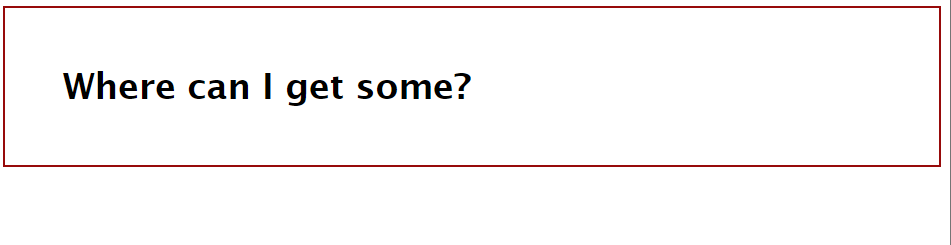
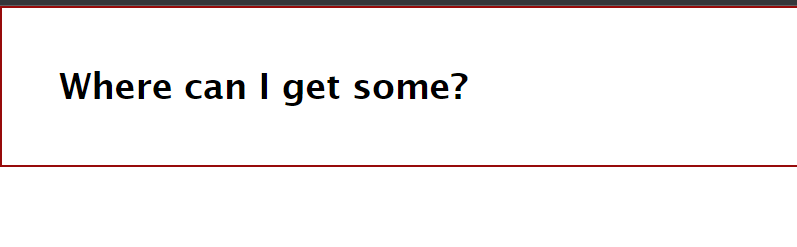
updated task4

Changed region(s): [[0.0, 0.0, 1.0, 1.0], [0.0602, 0.2857, 0.6023, 0.4286]]

diff --git a/CSS/task4/style.css b/CSS/task4/style.css
@@ -1,3 +1,8 @@
+body{
+        margin: 0px;
+}
+
+
 p{
         font-size: 25px;
         margin-block-start: 0px;
@@ -6,3 +11,4 @@ p{
         padding: 40px;
         
 }
+
